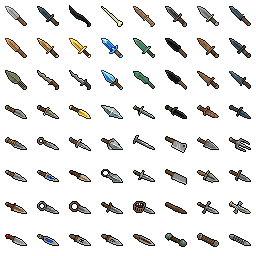
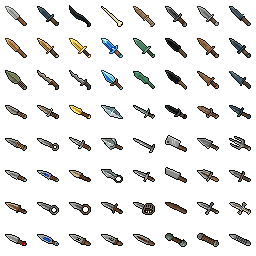
fix(art): 단검 후보 40개 방향 뒤집힘 — 180도 회전으로 복원
날이 좌상 · 손잡이가 우하라는 규약인데 64후보 중 24~63 이 정반대로 나왔다(사용자 지적).
0~23 과 24~63 사이에서 딱 끊긴다 — 도구가 격자를 채우는 도중에 기준이 갈린 것으로 보인다.

  0~23   날 좌상 · 손잡이 우하 · 기울기 약 40도   규약대로
  24~63  손잡이 좌상 · 날 우하 · 기울기 약 25도   뒤집힘 + 더 눕는다

--- 재생성할 일이 아니었다 (0 gen) ---

Tools/ArtPipeline/orient_grid.py  신규. 격자 시트에서 지정한 칸만 180도 회전.
                                  --check 는 손잡이(갈색)/날(무채색) 무게중심을
                                  대각축 x+y 에 투영해 판정한다.

--- 끝을 맞바꾸는 변환이 둘인데 하나만 맞다 ---

  A 180도 회전       각도 유지          25도 -> 25도   <- 이걸 쓴다
  B 반대각(↗↙) 대칭   각도가 90도에서 접힘  25도 -> 65도

뒤집힌 후보가 원래 더 눕는 각도라, B 를 쓰면 65도로 서 버려서 정상본(약 40도)보다
오히려 더 어긋난다. 빛 방향은 B 가 유리하지만 32px 에서 안 보이고 각도는 크게 보인다.

--- 판정은 참고지 판결이 아니다 ---

64칸 중 20칸이 「판정불가」다. 날까지 갈색인 후보(뼈·나무·돌)와 손잡이가 없는 후보
(수정 파편)에서 한쪽 표본이 빈다. #4 #8 은 판정이 났다면 오답이었다 — 갈색 날을
손잡이로 셌다. 회전 목록은 눈으로 64칸을 다 보고 정했고, 도구는 그 눈을 도왔을 뿐이다.

--- 나머지 무기 시트는 멀쩡하다 ---

검·활은 전부 세로로 서 있고 방향이 하나다. 대각선으로 놓이는 물건에서만 나는 문제다.

검증: 회전 후 64칸 전수 재확인 — 전부 날이 좌상. Unity 코드 변경 0 (Assets/ 밖).

Claude-Session: https://claude.ai/code/session_01FemFemytowDiYrXuZDnpvu

diff --git a/Tools/ArtPipeline/orient_grid.py b/Tools/ArtPipeline/orient_grid.py
@@ -1,0 +1,169 @@
+# -*- coding: utf-8 -*-
+"""통짜 격자 시트에서 **방향이 뒤집힌 칸만 180도 돌린다.**
+
+    # 판정만 (파일 안 건드림)
+    python Tools/ArtPipeline/orient_grid.py Art_Source/weapons/dagger_64_grid.png --check
+
+    # 지정한 칸을 돌려서 덮어쓴다
+    python Tools/ArtPipeline/orient_grid.py Art_Source/weapons/dagger_64_grid.png --rotate 24-63
+
+🔴 **왜 180도 회전인가 — 반대각 대칭은 각도를 세운다** (2026-09-10 실측)
+
+  단검은 대각선으로 놓인 물건이라 「끝을 맞바꾸는」 변환이 둘 있다:
+
+      A 180도 회전      각도 유지, 끝만 맞바꿈           25도 -> 25도
+      B 반대각(↗↙) 대칭  각도가 90도에서 접힘             25도 -> 65도
+
+  뒤집힌 후보(24~63)는 원래 **얕은 각도(약 25도)**로 그려졌고 정상 후보(0~23)는 약 40도다.
+  B 를 쓰면 65도로 서 버려서 정상본보다 더 어긋난다. **A 가 맞다.**
+
+  💡 B 가 이론상 유리한 경우가 있긴 하다 — 빛이 위에서 올 때 A 는 하이라이트를 아래로
+     옮긴다. 그런데 32px 단검에서는 그 차이가 안 보이고, **각도가 틀어지는 쪽이 훨씬 크게
+     보인다.** 그래서 각도를 지키는 A 를 고른다.
+
+🔑 **판정(`--check`)은 참고지 판결이 아니다.** 손잡이(갈색 계열)와 날(무채색)의 무게중심을
+   대각 축 `x+y` 에 투영해 비교하는데, **날까지 갈색인 후보**(뼈·나무·돌)와 **손잡이가 없는
+   후보**(수정 파편)에서는 한쪽 표본이 비어 「판정불가」가 난다. 실제로 64칸 중 20칸이
+   판정불가였고, 그중 #4 #8 은 판정이 났다면 오답이었을 것이다(날이 갈색이라 손잡이로 셌다).
+   **눈으로 본 결과를 `--rotate` 로 직접 주는 것이 정답이고, `--check` 는 그 눈을 돕는다.**
+"""
+
+import argparse
+
+import numpy as np
+from PIL import Image
+
+ALPHA_CUT = 128
+
+# ── 판정 잣대 ────────────────────────────────────────────────────────────────
+# 손잡이 = 나무/가죽의 따뜻한 색, 날 = 무채색 금속. 둘 다 최소 표본이 있어야 비교가 성립한다.
+WOOD_HUE = (10.0, 50.0)
+WOOD_SAT_MIN = 0.30
+WOOD_VAL_MIN = 0.12
+METAL_SAT_MAX = 0.22
+MIN_SAMPLE = 6
+
+
+def parseIndices(spec, total):
+    """"24-63,7,10" 같은 표기를 인덱스 집합으로."""
+    out = set()
+    for part in spec.split(","):
+        part = part.strip()
+        if not part:
+            continue
+        if "-" in part:
+            lo, hi = part.split("-", 1)
+            out.update(range(int(lo), int(hi) + 1))
+        else:
+            out.add(int(part))
+    bad = sorted(i for i in out if not 0 <= i < total)
+    if bad:
+        raise SystemExit("🔴 칸 범위를 벗어났다(0~%d): %s" % (total - 1, bad))
+    return sorted(out)
+
+
+def toHsv(cell):
+    """RGB 배열 -> (h[0~360], s, v). PIL 변환은 팔레트를 뭉개서 직접 계산한다."""
+    rgb = cell[..., :3] / 255.0
+    r, g, b = rgb[..., 0], rgb[..., 1], rgb[..., 2]
+    mx = rgb.max(axis=-1)
+    mn = rgb.min(axis=-1)
+    d = mx - mn
+    s = np.where(mx > 0, d / np.maximum(mx, 1e-6), 0.0)
+    h = np.zeros_like(mx)
+    lit = d > 1e-6
+    idx = (mx == r) & lit
+    h[idx] = ((g - b)[idx] / d[idx]) % 6
+    idx = (mx == g) & lit
+    h[idx] = ((b - r)[idx] / d[idx]) + 2
+    idx = (mx == b) & lit
+    h[idx] = ((r - g)[idx] / d[idx]) + 4
+    return h * 60.0, s, mx
+
+
+def judge(cell):
+    """(판정, 설명). 판정은 True=정상 / False=뒤집힘 / None=판정불가."""
+    alpha = cell[..., 3] > ALPHA_CUT
+    if alpha.sum() < 10:
+        return None, "빈 칸"
+
+    h, s, v = toHsv(cell)
+    size = cell.shape[0]
+    ys, xs = np.mgrid[0:size, 0:size]
+    axis = (xs + ys).astype(float)  # 작을수록 좌상, 클수록 우하
+
+    wood = alpha & (h >= WOOD_HUE[0]) & (h <= WOOD_HUE[1]) & (s >= WOOD_SAT_MIN) & (v > WOOD_VAL_MIN)
+    metal = alpha & (s < METAL_SAT_MAX)
+    if wood.sum() < MIN_SAMPLE or metal.sum() < MIN_SAMPLE:
+        return None, "판정불가 (손잡이 %d px · 날 %d px)" % (wood.sum(), metal.sum())
+
+    gap = axis[wood].mean() - axis[metal].mean()  # 양수 = 손잡이가 우하 = 정상
+    return gap > 0, "손잡이 %.1f · 날 %.1f · 차 %+.1f" % (axis[wood].mean(), axis[metal].mean(), gap)
+
+
+def loadGrid(path, cellSize):
+    im = Image.open(path).convert("RGBA")
+    if im.width % cellSize or im.height % cellSize:
+        raise SystemExit("🔴 %dx%d 는 셀 %d 로 안 나눠떨어진다" % (im.width, im.height, cellSize))
+    return im, im.width // cellSize, im.height // cellSize
+
+
+def cellArray(im, index, cols, cellSize):
+    row, col = divmod(index, cols)
+    box = (col * cellSize, row * cellSize, (col + 1) * cellSize, (row + 1) * cellSize)
+    return np.array(im.crop(box)).astype(float), box
+
+
+def runCheck(im, cols, rows, cellSize):
+    total = cols * rows
+    print("%d칸 (셀 %dpx · %d열)\n" % (total, cellSize, cols))
+    print("%4s  %-10s  %s" % ("칸", "판정", "근거"))
+    suspect, unknown = [], []
+    for i in range(total):
+        arr, _ = cellArray(im, i, cols, cellSize)
+        ok, why = judge(arr)
+        if ok is None:
+            label = "판정불가"
+            unknown.append(i)
+        elif ok:
+            label = "정상"
+        else:
+            label = "뒤집힘"
+            suspect.append(i)
+        print("%4d  %-10s  %s" % (i, label, why))
+    print("\n뒤집힘 %d칸: %s" % (len(suspect), suspect))
+    print("판정불가 %d칸 (눈으로 볼 것): %s" % (len(unknown), unknown))
+    return suspect, unknown
+
+
+def runRotate(im, indices, cols, cellSize, path):
+    for i in indices:
+        row, col = divmod(i, cols)
+        box = (col * cellSize, row * cellSize, (col + 1) * cellSize, (row + 1) * cellSize)
+        im.paste(im.crop(box).rotate(180), box)
+    im.save(path)
+    print("%d칸 180도 회전 후 저장: %s" % (len(indices), path))
+    print("돌린 칸: %s" % indices)
+
+
+def main():
+    ap = argparse.ArgumentParser(description="격자 시트에서 뒤집힌 칸만 180도 회전")
+    ap.add_argument("sheet", help="통짜 격자 PNG")
+    ap.add_argument("--cell", type=int, default=32, help="셀 한 변 픽셀 (기본 32)")
+    ap.add_argument("--check", action="store_true", help="판정만 하고 파일은 안 건드린다")
+    ap.add_argument("--rotate", default=None, help='돌릴 칸. 예: "24-63" 또는 "4,26,27"')
+    args = ap.parse_args()
+
+    im, cols, rows = loadGrid(args.sheet, args.cell)
+
+    if args.check or not args.rotate:
+        runCheck(im, cols, rows, args.cell)
+        if not args.rotate:
+            return
+
+    indices = parseIndices(args.rotate, cols * rows)
+    runRotate(im, indices, cols, args.cell, args.sheet)
+
+
+if __name__ == "__main__":
+    main()

diff --git a/Art_Source/40_TOOLS/pixellab/profile.md b/Art_Source/40_TOOLS/pixellab/profile.md
@@ -599,3 +599,23 @@ select_object_frames(indices=[...])  또는  dismiss_review
 
 🔑 **고르는 공정이 도구에 내장돼 있다.** 환경에서는 후보를 사람이 파일로 받아 골랐는데,
 여기는 `review` 상태가 그 자리를 대신한다.
+
+### 🔴 방향이 후보 절반에서 뒤집혀 나온다 (2026-09-10 · 단검 실측)
+
+단검 64후보 중 **40개(24~63)가 정반대**로 나왔다. 규약은 「날이 좌상 · 손잡이가 우하」인데
+뒤쪽 후보들은 손잡이가 좌상이었다. **0~23 과 24~63 사이에서 딱 끊긴다** — 우연이 아니라
+도구가 격자를 채우는 도중에 기준이 갈린 것으로 보인다.
+
+```
+0~23   날 좌상 · 손잡이 우하 · 기울기 약 40도   <- 규약대로
+24~63  손잡이 좌상 · 날 우하 · 기울기 약 25도   <- 뒤집힘 + 더 눕는다
+```
+
+🔑 **재생성할 일이 아니다 — 180도 회전으로 끝난다(0 gen).**
+`Tools/ArtPipeline/orient_grid.py --rotate 24-63` 가 칸 단위로 돌린다.
+
+⚠ **반대각(↗↙) 대칭은 쓰면 안 된다.** 끝을 맞바꾸는 변환이 둘인데, 반대각 대칭은
+각도를 `θ -> 90-θ` 로 접어서 25도짜리를 65도로 세운다. **180도 회전만 각도를 지킨다.**
+
+💡 **세로로 선 무기는 이 문제가 없다** — 검·활 시트는 전부 방향이 같았다.
+대각선으로 놓이는 물건(단검·표창)에서만 볼 자리다.
